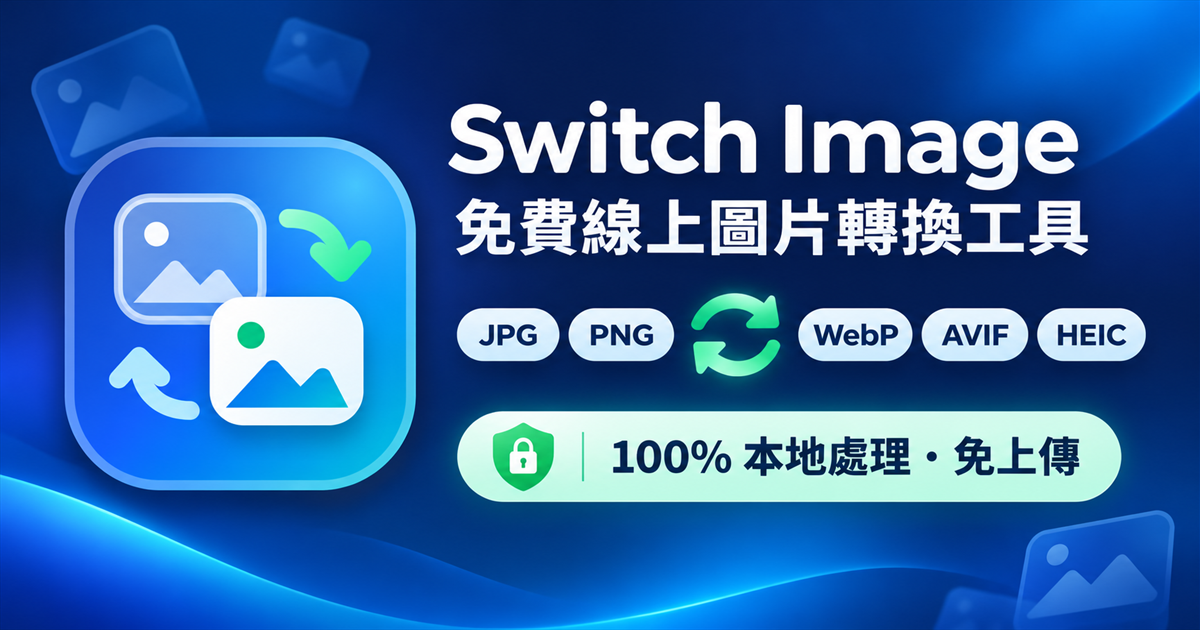
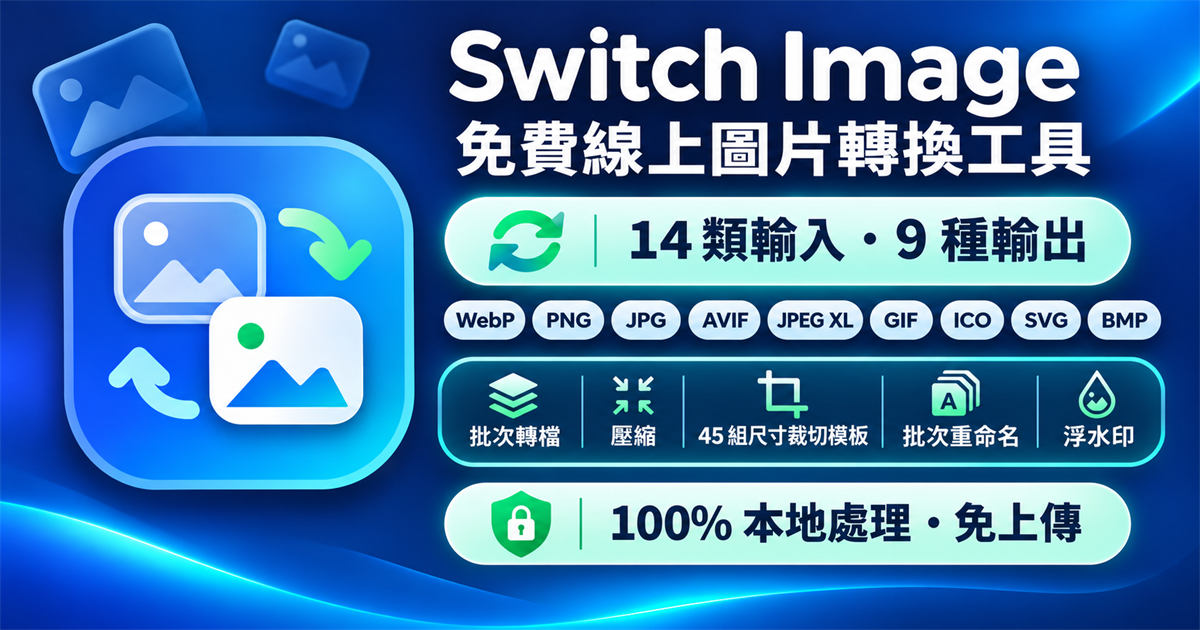
更新品牌圖片並新增英文 README 橫幅
Refresh brand artwork and add an English README banner

在社群分享圖與 README 橫幅呈現目前支援的格式、尺寸裁切模板及批次處理功能。

Show current format support, size and crop templates, and batch processing tools in the social cover and README banners.

diff --git a/README.en.md b/README.en.md
@@ -1,7 +1,7 @@
 <div align="center">
 
 <a href="https://switchimage.stack-base.com">
-  <img src="./assets/brand/readme-banner.png" alt="Switch Image Online Image Converter" width="100%" />
+  <img src="./assets/brand/readme-banner.en.png" alt="Switch Image Online Image Converter" width="100%" />
 </a>
 
 # Switch Image
